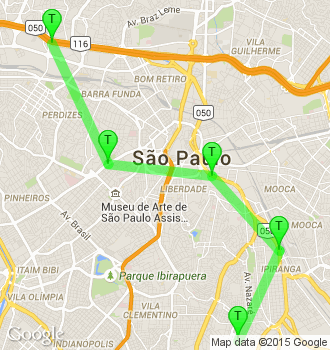
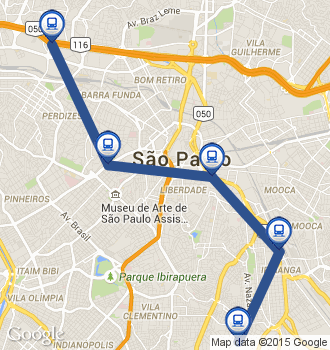
updated route maps

diff --git a/api/server.py b/api/server.py
@@ -142,9 +142,10 @@ def get_route_map(route):
     if not os.path.exists(map_filename):
         route_points = [leg['start'] for leg in route['legs']] + [route['legs'][-1]['end']]
         map_url = 'https://maps.googleapis.com/maps/api/staticmap'
+        icon_url = 'http://goo.gl/Fo49ij'
         map_params = {'size': '330x350',
-                      'markers': [ 'color:0x00F900|label:T|'+coord_to_str(p) for p in route_points ] ,
-                      'path': ['color:0x00F900|weight:10|'+coord_to_str(leg['start'])+'|'+coord_to_str(leg['end']) for leg in route['legs']],
+                      'markers': [ 'icon:'+icon_url+'|'+coord_to_str(p) for p in route_points ] ,
+                      'path': ['color:0x2F528FFF|weight:10|'+coord_to_str(leg['start'])+'|'+coord_to_str(leg['end']) for leg in route['legs']],
                       'key': GOOGLE_API_KEY,
                       }
         resp = requests.get(map_url, map_params)
